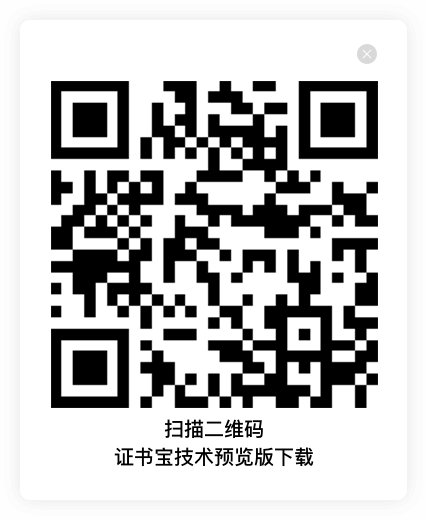
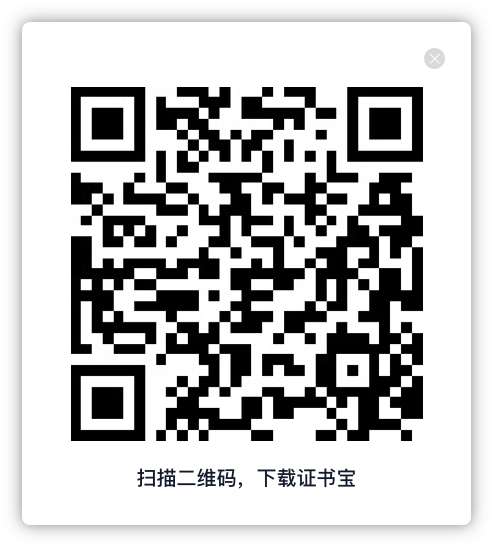
update

diff --git a/zsb.html b/zsb.html
@@ -215,14 +215,14 @@
             <img src="./zsb/img/anz.png" alt="" />
             <div>
               <p class="zsben-padding">Android version download</p>
-              <p>Beta push on April 14, 2019</p>
+              <p>V1.3.0 push on July 1, 2019</p>
             </div>
           </div>
           <div class="r click_code">
             <img src="./zsb/img/ios.png" alt="" />
             <div>
               <p class="zsben-padding">Apple IOS version download</p>
-              <p>Beta push on April 14, 2019</p>
+              <p>V1.3.0 push on July 1, 2019</p>
             </div>
           </div>
         </div>

diff --git a/zsb-cn.html b/zsb-cn.html
@@ -213,14 +213,14 @@
             <img src="/zsb/img/anz.png" alt="" />
             <div>
               <p>Android 安卓版本下载</p>
-              <p>2019年4月14日 技术预览版下载</p>
+              <p>2019年7月1日 V1.3.0版本下载</p>
             </div>
           </div>
           <div class="r click_code">
             <img src="/zsb/img/ios.png" alt="" />
             <div>
               <p>IOS 版本下载</p>
-              <p>2019年4月14日 技术预览版下载</p>
+              <p>2019年7月1日 V1.3.0版本下载</p>
             </div>
           </div>
         </div>
